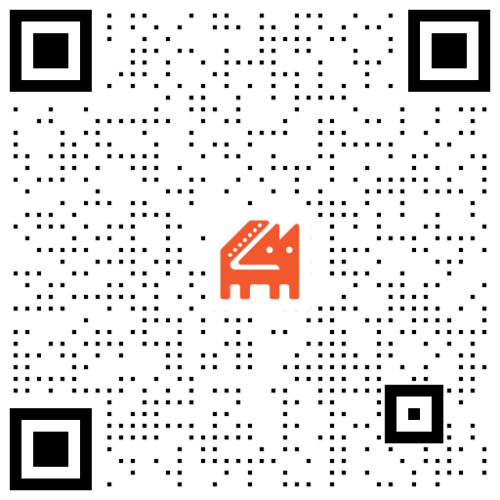
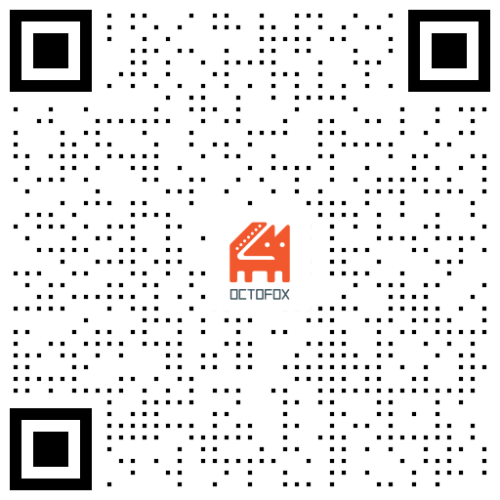
Use local version of qr-code lib

Changed region(s): [[0.42, 0.42, 0.6, 0.6], [0.75, 0.75, 0.9, 0.9]]

diff --git a/testqr.js b/testqr.js
@@ -1,4 +1,4 @@
-const AwesomeQRCode = require('awesome-qr')
+const AwesomeQRCode = require('./src/lib/awesome-qr-node')
 const fs = require('fs')
 // const logo = require('./logo.png')
 
@@ -6,7 +6,7 @@ const {Image} = require('canvas')
 
 
 const img = new Image()
-img.src = './logo.png'
+img.src = './src/event/logo.png'
 
 // const qr = new AwesomeQRCode().create({
 //   text: 'Makito loves Kafuu Chino.',
@@ -32,7 +32,7 @@ img.src = './logo.png'
 
 describe('XX', () => {
   it ('done', (done) => {
-    const qr = new AwesomeQRCode().create({
+    new AwesomeQRCode().create({
       text: 'https://catcat.io/api/ticketing/confirm/15790e61ed6990c2af3597607c1b0a32467fcde1b70c2eecae6f52e488683fd3',
       size: 500,
       autoColor: true,
@@ -43,7 +43,7 @@ describe('XX', () => {
       // maskedDots: true,
       logoImage: img,
       logoScale: 0.2,
-      logoMargin: 3,
+      logoMargin: 3.5,
       logoCornerRadius: 0,
       callback: (data) => {
         if (data === undefined) {
@@ -54,6 +54,7 @@ describe('XX', () => {
           fs.writeFile('qr-out.png', data, (err) =>
             err && console.error(err))
 
+          console.log('done')
           done()
         }
       }

diff --git a/src/event/initQrGenerator.js b/src/event/initQrGenerator.js
@@ -1,5 +1,5 @@
 module.exports = (config) => {
-  const AwesomeQRCode = require('awesome-qr')
+  const AwesomeQRCode = require('../lib/awesome-qr-node')
   const { Image } = require('canvas')
 
   const UUID = require('uuid-v4')
